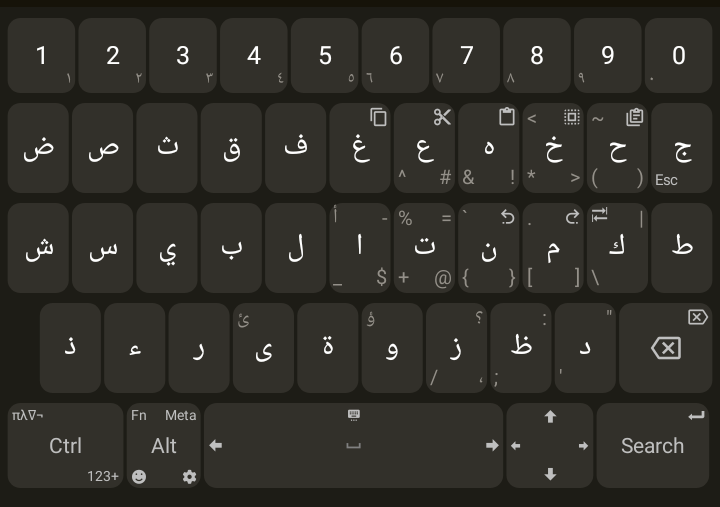
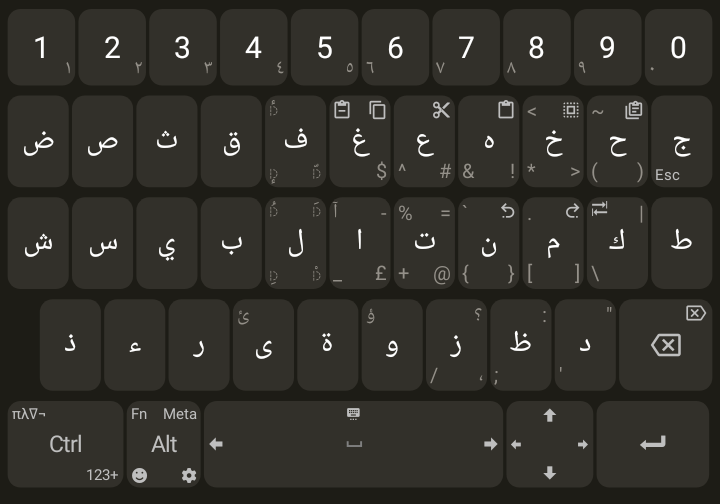
feat: updated previews

diff --git a/README.md b/README.md
@@ -10,8 +10,8 @@ These are my custom layouts for [Unexpected-Keyboard](https://github.com/Julow/U
 | Arabic |
 
 ## Fn Modifier
-| ![qwerty pinyin](./images/qwerty_pinyin.png) |
+| ![qwerty pinyin](./images/qwerty_fn.png) |
 | ----- |
-| Qwerty Pinyin |
+| Qwerty with pinyin diacritics |
 
 
